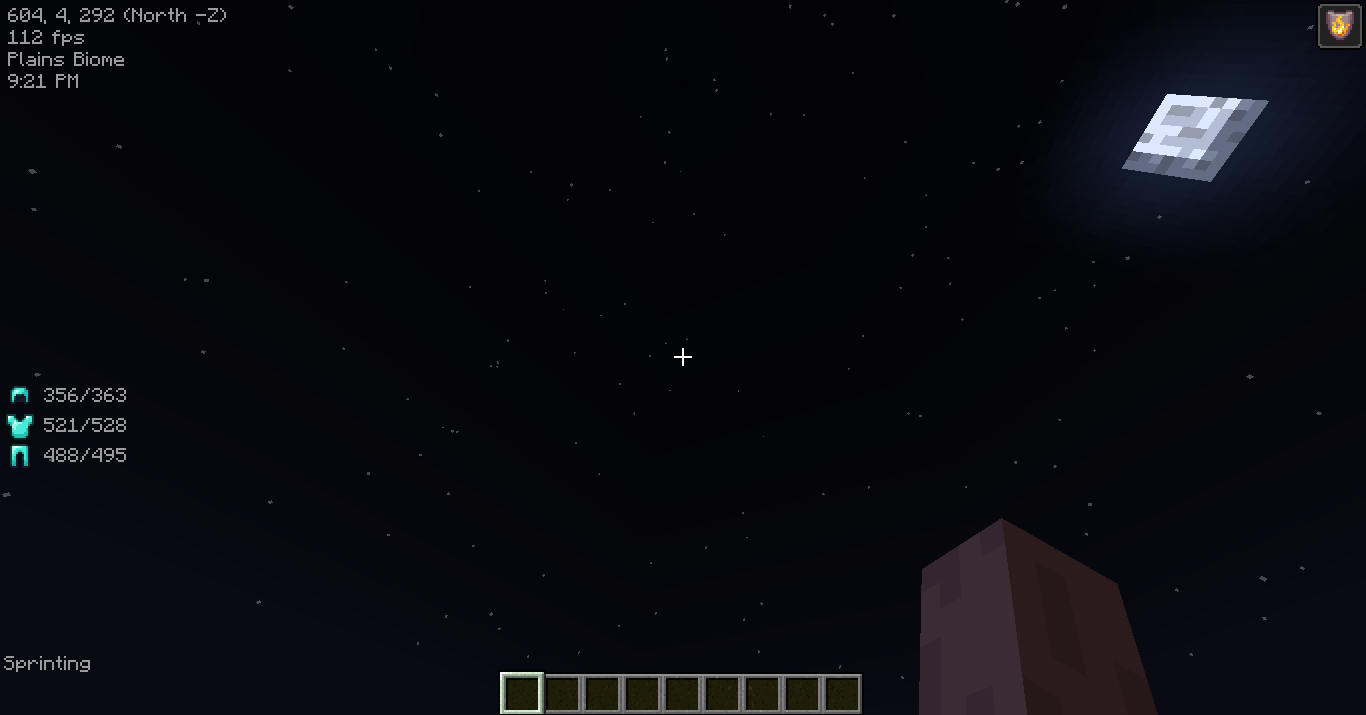
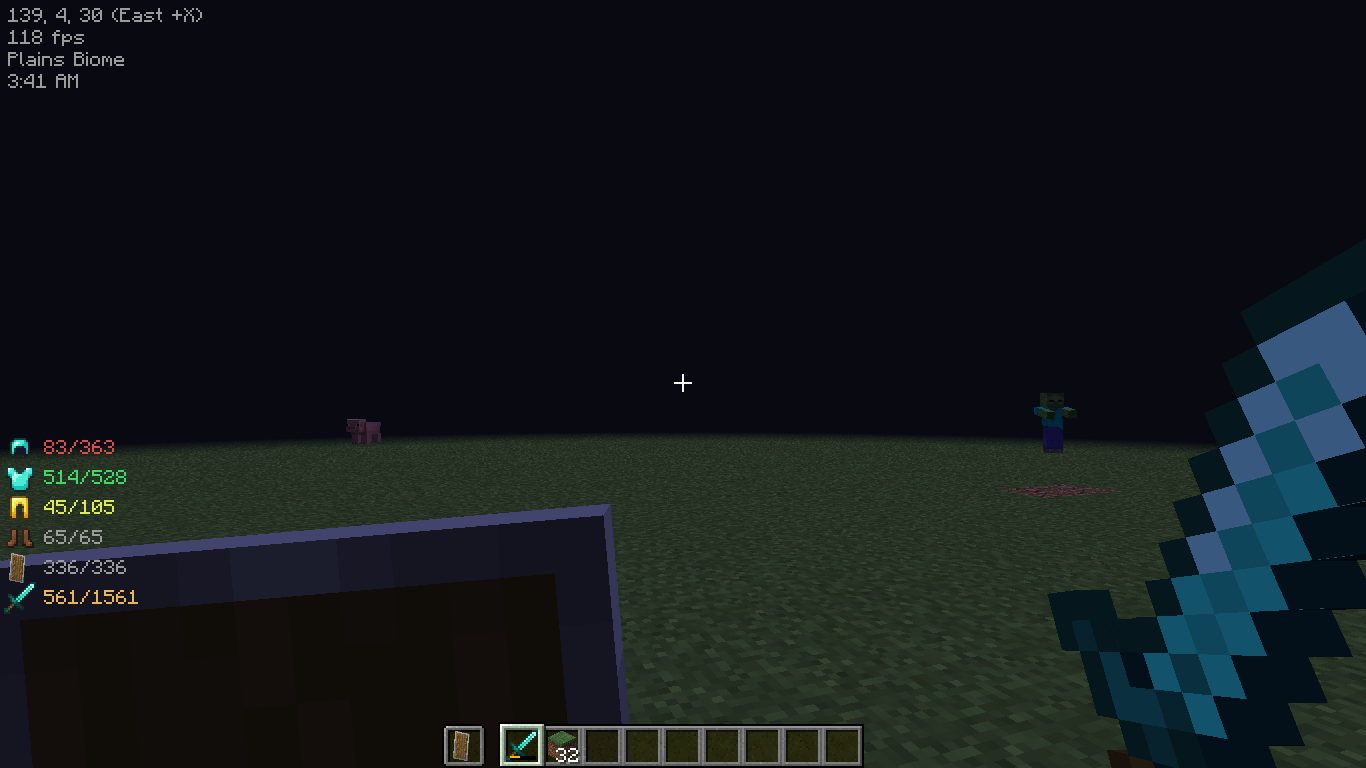
Add different colors to item durabilities based on damage

diff --git a/src/main/java/net/johnvictorfs/simple_utilities/hud/GameInfoHud.java b/src/main/java/net/johnvictorfs/simple_utilities/hud/GameInfoHud.java
@@ -156,9 +156,27 @@ public class GameInfoHud implements Drawable {
 
             if (equippedItem.getMaxDamage() != 0) {
                 int currentDurability = equippedItem.getMaxDamage() - equippedItem.getDamage();
+
                 String itemDurability = currentDurability + "/" + equippedItem.getMaxDamage();
 
-                this.fontRenderer.draw(itemDurability, 22, itemTop - 64, Colors.lightGray);
+                // Default Durability Color
+                int color = Colors.lightGray;
+
+                if (currentDurability < equippedItem.getMaxDamage()) {
+                    // Start as Green if item has lost at least 1 durability
+                    color = Colors.lightGreen;
+                }
+                if (currentDurability <= (equippedItem.getMaxDamage() / 1.5)) {
+                    color = Colors.lightYellow;
+                }
+                if (currentDurability <= (equippedItem.getMaxDamage() / 2.5)) {
+                    color = Colors.lightOrange;
+                }
+                if (currentDurability <= (equippedItem.getMaxDamage()) / 4) {
+                    color = Colors.lightRed;
+                }
+
+                this.fontRenderer.draw(itemDurability, 22, itemTop - 64, color);
             } else {
                 int count = equippedItem.getCount();
 

diff --git a/src/main/java/net/johnvictorfs/simple_utilities/helpers/Colors.java b/src/main/java/net/johnvictorfs/simple_utilities/helpers/Colors.java
@@ -5,5 +5,6 @@ public class Colors {
     public static final int lightRed = Integer.parseInt("db4f4f", 16);
     public static final int lightYellow = Integer.parseInt("e0ed53", 16);
     public static final int lightOrange = Integer.parseInt("edb753", 16);
+    public static final int lightGreen = Integer.parseInt("3ade65", 16);
     public static final int white = 0x00E0E0E0;
 }

diff --git a/README.md b/README.md
@@ -10,6 +10,7 @@ A Minecraft Mod that enhances the Game's HUD with some simple utilities like the
     - Simplified coordinates that are available all the time on the screen (Example: `39, 64, 200` as `X, Y, Z`)
     - Cardinal directions and which Coordinates are increasing/decreasing (Example: `(East X+)` when looking East, where the `X` coordinate is increasing)
     - Current armour and hand items and their durabilities, available all the time on the screen
+        - Different colors based on how low the durability is
     - Current Game time in AM/PM format
     - Current sprinting status
     - Current framerate
@@ -48,7 +49,6 @@ A Minecraft Mod that enhances the Game's HUD with some simple utilities like the
 ## Planned features
 
 - Allow the User to toggle the HUD utilities, both individually and as a whole, could be done either with Hotkeys or with a Settings interface, possibly both
-- Add durability colors to Armour
 - Add current status effects duration to HUD
 - Add Sun/Moon icons to the current game time, so it's easier to notice if it's Day or Night
 
